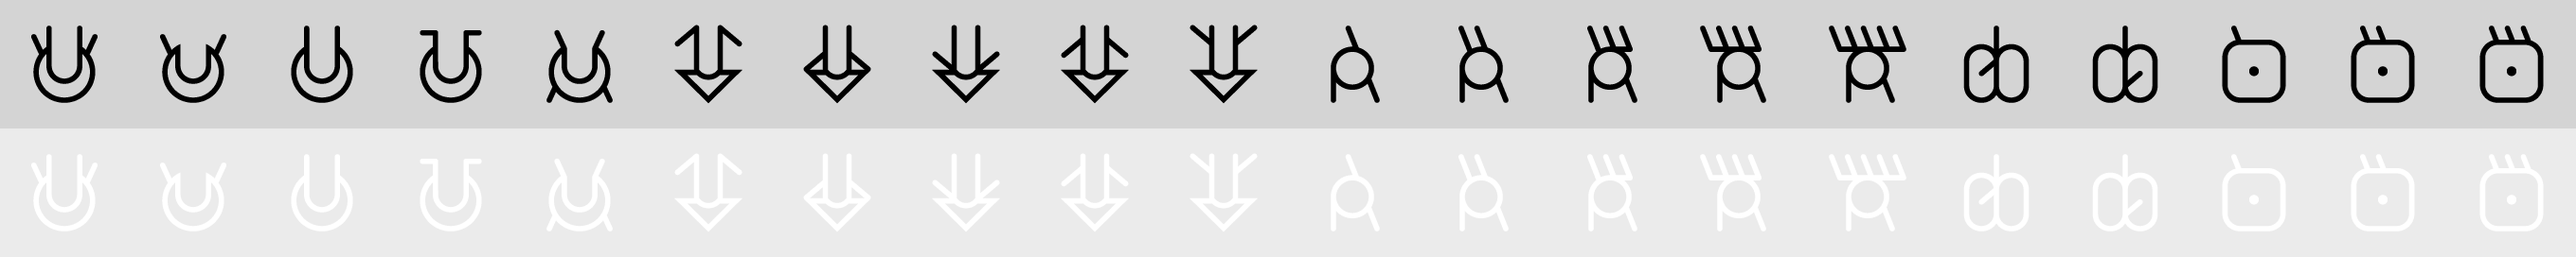
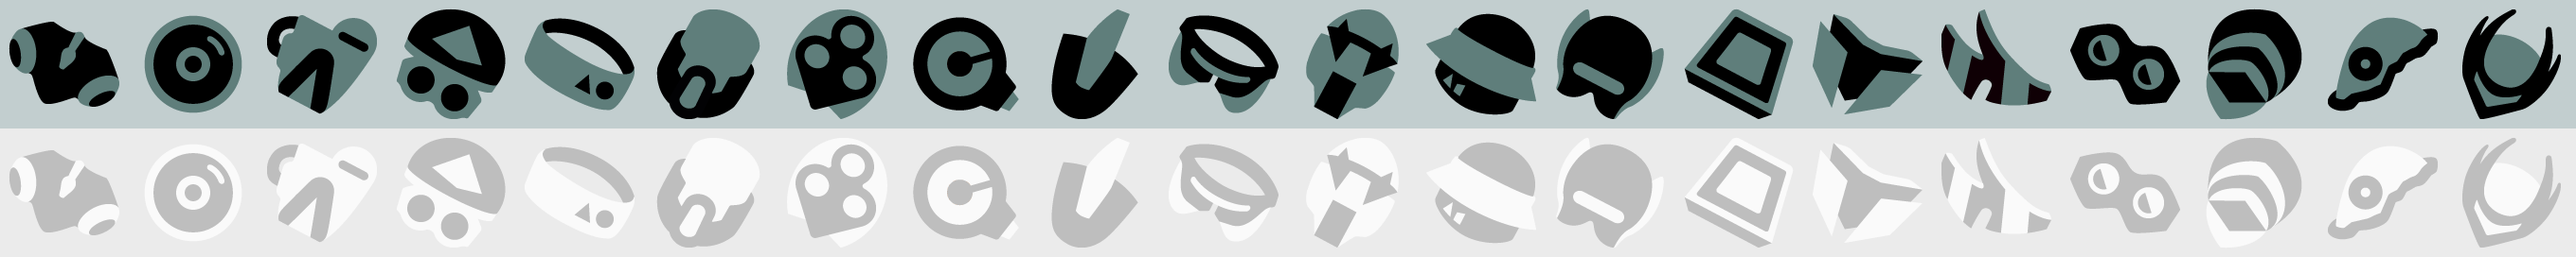
feat: v.0.0.1 ready Everything still a bit hacky

diff --git a/styles.css b/styles.css
@@ -101,7 +101,6 @@ main {
     width: 100%;
     max-width: 120px;
     height: 100%;
-    border: 1px solid green;
     opacity: 0.6;
     transition: all 250ms;
     position: relative;
@@ -188,7 +187,7 @@ img {
 .loader {
     height: 4px;
     width: 0%;
-    background-color: black;
+    background-color: grey;
     border-radius: 8px;
     bottom: 0;
     opacity: 0;
@@ -201,7 +200,7 @@ img {
 .loader.loading {
     width: 100%;
     opacity: 1;
-    background: grey;
+    background: #5f7e7b;
 }
 
 footer {
@@ -227,20 +226,19 @@ footer {
     height: 100%;
     flex: 1;
     display: flex;
-    border: 1px solid red;
     padding: 4px 0;
 }
 
 .song {
-    background-color: aqua;
     aspect-ratio: 1;
     flex-grow: 1;
     flex-shrink: 1;
     width: 0%;
-    height: unset;
+    background-size: contain;
+    background-repeat: no-repeat;
     margin: 0 4px;
     cursor: grab;
-    border-radius: 4px;
+    border-radius: 8px;
 }
 
 .left {
@@ -249,4 +247,89 @@ footer {
 
 .right {
     padding-right: 5%;
+}
+
+/* Will replace with sprites */
+.song[data-song-id="1"] {
+    background-image: url(/one.png);
+}
+
+.song[data-song-id="2"] {
+    background-image: url(/two.png);
+}
+
+.song[data-song-id="3"] {
+    background-image: url(/three.png);
+}
+
+.song[data-song-id="4"] {
+    background-image: url(/four.png);
+}
+
+.song[data-song-id="5"] {
+    background-image: url(/five.png);
+}
+
+.song[data-song-id="6"] {
+    background-image: url(/six.png);
+}
+
+.song[data-song-id="7"] {
+    background-image: url(/seven.png);
+}
+
+.song[data-song-id="8"] {
+    background-image: url(/eight.png);
+}
+
+.song[data-song-id="9"] {
+    background-image: url(/nine.png);
+}
+
+.song[data-song-id="10"] {
+    background-image: url(/ten.png);
+}
+
+.song[data-song-id="11"] {
+    background-image: url(/eleven.png);
+}
+
+.song[data-song-id="12"] {
+    background-image: url(/twelve.png);
+}
+
+.song[data-song-id="13"] {
+    background-image: url(/thirteen.png);
+}
+
+.song[data-song-id="14"] {
+    background-image: url(/fourteen.png);
+}
+
+.song[data-song-id="15"] {
+    background-image: url(/fifteen.png);
+}
+
+.song[data-song-id="16"] {
+    background-image: url(/sixteen.png);
+}
+
+.song[data-song-id="17"] {
+    background-image: url(/seventeen.png);
+}
+
+.song[data-song-id="18"] {
+    background-image: url(/eighteen.png);
+}
+
+.song[data-song-id="19"] {
+    background-image: url(/nineteen.png);
+}
+
+.song[data-song-id="20"] {
+    background-image: url(/twenty.png);
+}
+
+.song[data-song-id="1"] {
+    background-image: url(/one.png);
 }

diff --git a/main.js b/main.js
@@ -310,7 +310,7 @@ function handleRemoveAudio(ev) {
     }
     if (pointerDownTop !== 0 &&
         pointerUpTop !== 0 &&
-        pointerUpTop > pointerDownTop) {
+        pointerUpTop - pointerDownTop > 20) {
         dropSong(id, target, singerId);
         pointerUpTop = 0;
         pointerDownTop = 0;

diff --git a/main.ts b/main.ts
@@ -352,7 +352,7 @@ function handleRemoveAudio(ev: PointerEvent): void {
   if (
     pointerDownTop !== 0 &&
     pointerUpTop !== 0 &&
-    pointerUpTop > pointerDownTop
+    pointerUpTop - pointerDownTop > 20
   ) {
     dropSong(id, target, singerId);
     pointerUpTop = 0;
